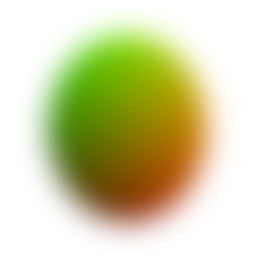
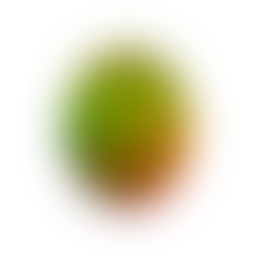
Add raindrop trail rendering & improve raindrop blending

diff --git a/rain/src/index.ts b/rain/src/index.ts
@@ -4,7 +4,7 @@ import vert from "./shader/2d-vert.glsl";
 import frag from "./shader/2d-frag.glsl";
 import { JitterOption } from "./random";
 import { Spawner } from "./spawner";
-import { RaindropSimulator } from "./physics";
+import { RaindropSimulator, SimulatorOptions } from "./simulator";
 import { MaterialRaindropNormal, RaindropCompose } from "./materials";
 import { RenderTarget } from "zogra-renderer/dist/core/render-target";
 import { Time } from "./utils";
@@ -12,10 +12,8 @@ import background from "../assets/img/87747832_p0.jpg";
 import { TextureFormat } from "zogra-renderer/dist/core/texture-format";
 import { BlurRenderer } from "./blur";
 
-export interface Options
+export interface Options extends SimulatorOptions
 {
-    spawnInterval: JitterOption<number>;
-    spawnSize: JitterOption<number>;
 }
 
 export class RaindropFX
@@ -25,8 +23,8 @@ export class RaindropFX
 
     private options: Options;
 
-    private spawner: Spawner;
-    private physics: RaindropSimulator = new RaindropSimulator();
+    // private spawner: Spawner;
+    private simulator: RaindropSimulator;
     private blurRenderer: BlurRenderer;
 
 
@@ -42,22 +40,26 @@ export class RaindropFX
 
 
 
-    constructor(canvas: HTMLCanvasElement, options: Options)
+    constructor(canvas: HTMLCanvasElement, options: Partial<Options>)
     {
         this.renderer = new ZograRenderer(canvas);
         this.renderer.gl.getExtension("EXT_color_buffer_float");
 
-        this.options = options;
+        const defaultOptions = <Options>{
+            spawnInterval: [0.2, 0.4],
+            spawnSize: [20, 160],
+            viewport: new Rect(vec2.zero(), this.renderer.canvasSize),
+        };
 
-        this.spawner = new Spawner(
-            options.spawnInterval,
-            options.spawnSize,
-            new Rect(vec2.zero(), vec2(canvas.width, canvas.height)));
+        this.options = { ...defaultOptions, ...options };
+
+        this.simulator = new RaindropSimulator(this.options);
+
         this.blurRenderer = new BlurRenderer(this.renderer);
         
         this.projectionMatrix = mat4.ortho(0, canvas.width, 0, canvas.height, 1, -1);
 
-        this.normalTexture = new RenderTexture(canvas.width, canvas.height, false, TextureFormat.RGBA16F);
+        this.normalTexture = new RenderTexture(canvas.width, canvas.height, false, TextureFormat.RGBA);
 
         this.mesh = MeshBuilder.quad();
     }
@@ -110,7 +112,7 @@ export class RaindropFX
             const dt = (delay - lastFrameTime) / 1000;
             lastFrameTime = delay;
             const time = <Time>{
-                dt: dt,
+                dt: 0.03,
                 total: delay / 1000
             };
 
@@ -126,13 +128,13 @@ export class RaindropFX
     {
         this.renderer.blit(this.background, RenderTarget.CanvasTarget);
         // return;
-        let newDrop = this.spawner.update(time.dt).trySpawn();
-        if (newDrop)
-        {
-            this.physics.add(newDrop);
-        }
+        // let newDrop = this.spawner.update(time.dt).trySpawn();
+        // if (newDrop)
+        // {
+        //     this.simulator.add(newDrop);
+        // }
 
-        this.physics.update(time);
+        this.simulator.update(time);
 
         if (this.background)
             this.renderer.blit(this.background, RenderTarget.CanvasTarget);
@@ -140,9 +142,10 @@ export class RaindropFX
         this.renderer.setRenderTarget(this.normalTexture);
         this.renderer.clear(Color.black.transparent());
         this.renderer.setViewProjection(mat4.identity(), this.projectionMatrix);
-        for (const raindrop of this.physics.raindrops)
+        for (const raindrop of this.simulator.raindrops)
         {
-            this.renderer.drawMesh(this.mesh, mat4.rts(quat.identity(), raindrop.pos.toVec3(), vec3(raindrop.size)), this.raindropNormalMat);
+            this.raindropNormalMat.size = raindrop.size.x / this.options.spawnSize[1];
+            this.renderer.drawMesh(this.mesh, mat4.rts(quat.identity(), raindrop.pos.toVec3(), raindrop.size.toVec3(1)), this.raindropNormalMat);
         }
         this.renderer.setRenderTarget(RenderTarget.CanvasTarget);
         this.renderer.clear(Color.black);

diff --git a/rain/src/raindrop.ts b/rain/src/raindrop.ts
@@ -1,31 +1,95 @@
-import { mul, vec2 } from "zogra-renderer";
-import { goldNoise } from "./random";
-import { Time } from "./utils";
+import { trimEnd } from "*.png";
+import { minus, mul, plus, vec2 } from "zogra-renderer";
+import { goldNoise, random, randomRange } from "./random";
+import { RaindropSimulator } from "./simulator";
+import { clamp, Time } from "./utils";
 
 export class RainDrop
 {
     pos: vec2;
-    size: number;
+    // size: number;
     seed: number;
     velocity: vec2 = vec2.zero();
+    spread: vec2;
+    destroy = false;
+    evaporate = 0;
+    mass: number = 0;
+
+    private simulator: RaindropSimulator;
+    private resistance = 0;
+    private shifting = 0;
+    private gravity = 2400;
+    private lastTrailPos: vec2;
+    private nextTrailDistance: number;
 
     private nextRandomTime = 0;
 
-    constructor(pos: vec2, size: number)
+    constructor(simulator: RaindropSimulator, pos: vec2, size: number)
     {
         this.pos = pos;
-        this.size = size;
         this.seed = Math.floor(Math.random() * 2147483647) + 1;
-        this.velocity.x = Math.random() * 20 - 10;
+        this.simulator = simulator;
+        // this.velocity.x = Math.random() * 20 - 10;
+        // this.velocity.y = -Math.random() * 60;
+
+        this.lastTrailPos = pos.clone();
+        this.nextTrailDistance = randomRange(10, 20);
+
+        this.spread = vec2(0.5, 0.5);
+
+        this.mass = size ** 2;
+    }
+    
+    get size(): vec2
+    {
+        return mul(plus(this.spread, vec2.one()), Math.sqrt(this.mass));
     }
 
     update(time: Time)
     {
-        this.pos.plus(mul(this.velocity, vec2(time.dt)));
         if (this.nextRandomTime <= time.total)
         {
-            this.nextRandomTime = time.total + Math.random() * 3;
-            this.velocity.x = Math.random() * 40 - 20;
+            this.nextRandomTime = time.total + Math.random() * 0.4;
+            this.randomMotion();
         }
+
+        this.mass -= this.evaporate * time.dt;
+        const force = this.gravity * this.mass - this.resistance;
+        const acceleration = force / this.mass;
+        this.velocity.y -= acceleration * time.dt;
+        if (this.velocity.y > 0)
+            this.velocity.y = 0;
+        this.velocity.x = Math.abs(this.velocity.y) * this.shifting;
+        this.pos.plus(mul(this.velocity, vec2(time.dt)));
+
+        this.spread.y = Math.max(this.spread.y, 0.3 * 2 * Math.atan(Math.abs(this.velocity.y * 0.005)) / Math.PI);
+        this.spread.x *= 0.7;
+        this.spread.y *= 0.85;
+        // this.spread.y +=  Math.abs(this.velocity.y) * 0.0001;
+
+        if (minus(this.lastTrailPos, this.pos).magnitude > this.nextTrailDistance)
+        {
+            this.split();
+        }
+    }
+
+    split()
+    {
+        if (this.mass < 1000)
+            return;
+        let mass = randomRange(0.05, 0.1) * this.mass;
+        this.mass -= mass * 0.5;
+        const pos = plus(vec2(randomRange(-5, 5), this.size.y / 4), this.pos);
+        let trailDrop = this.simulator.spawner.spawn(pos.clone(), mass);
+        trailDrop.spread = vec2(1, Math.abs(this.velocity.y) * 0.006);
+        this.simulator.add(trailDrop);
+        this.lastTrailPos = this.pos.clone();
+        this.nextTrailDistance = randomRange(20, 30);
+    }
+
+    randomMotion()
+    {
+        this.resistance = randomRange(0.1, 1) * this.gravity * 3000;
+        this.shifting = random() * 0.1;
     }
 }

diff --git a/rain/src/spawner.ts b/rain/src/spawner.ts
@@ -1,23 +1,26 @@
 import { Rect, vec2 } from "zogra-renderer";
 import { RainDrop } from "./raindrop";
-import { randomJittered, JitterOption, randomInRect } from "./random";
+import { randomJittered, JitterOption, randomInRect, randomRange } from "./random";
+import { RaindropSimulator, SimulatorOptions } from "./simulator";
 
 export class Spawner
 {
-    interval: JitterOption<number>;
-    size: JitterOption<number>;
-    spawnRect: Rect;
 
 
     currentTime = 0;
     nextSpawn = 0;
 
-    constructor(spawnInterval: JitterOption<number>, spawnSize: JitterOption<number>, spawnRect: Rect)
+    private simulator: RaindropSimulator;
+
+    constructor(simulator: RaindropSimulator, options: SimulatorOptions)
     {
-        this.interval = spawnInterval;
-        this.size = spawnSize;
-        this.spawnRect = spawnRect;
+
+        this.simulator = simulator;
     }
+    
+    get interval() { return this.simulator.options.spawnInterval }
+    get size() { return this.simulator.options.spawnSize }
+    get spawnRect() { return this.simulator.options.viewport }
 
     update(dt: number): this
     {
@@ -28,12 +31,16 @@ export class Spawner
     {
         if (this.currentTime >= this.nextSpawn)
         {
-            this.nextSpawn = this.currentTime + randomJittered(this.interval);
+            this.nextSpawn = this.currentTime + randomRange(...this.interval);
 
-            const size = randomJittered(this.size);
+            const size = randomRange(...this.size);
             const pos = randomInRect(this.spawnRect.shrink(100));
-            return new RainDrop(pos, size);
+            return new RainDrop(this.simulator, pos, size);
         }
         return undefined;
+    }
+    spawn(pos: vec2, mass: number)
+    {
+        return new RainDrop(this.simulator, pos, Math.pow(mass, 1 / 2));
     }
 }

diff --git a/rain/src/simulator.ts b/rain/src/simulator.ts
@@ -1,0 +1,53 @@
+import { Rect } from "zogra-renderer";
+import { RainDrop } from "./raindrop";
+import { JitterOption } from "./random";
+import { Spawner } from "./spawner";
+import { Time } from "./utils";
+
+export interface SimulatorOptions
+{
+    spawnInterval: [number, number];
+    spawnSize: [number, number];
+    viewport: Rect;
+}
+
+export class RaindropSimulator
+{
+    options: SimulatorOptions;
+    spawner: Spawner;
+    raindrops: RainDrop[] = [];
+    constructor(options: SimulatorOptions)
+    {
+        this.options = options;
+
+        this.spawner = new Spawner(this, options);
+    }
+    add(raindrop: RainDrop)
+    {
+        this.raindrops.push(raindrop);
+    }
+
+    update(time: Time)
+    {
+        let newDrop = this.spawner.update(time.dt).trySpawn();
+        if (newDrop)
+            this.raindrops.push(newDrop);
+
+        for (let i = 0; i < this.raindrops.length; i++)
+        {
+            const raindrop = this.raindrops[i];
+            raindrop.update(time);
+            if (raindrop.pos.y < -100)
+                raindrop.destroy = true;
+        }
+
+        for (let i = 0; i < this.raindrops.length; i++)
+        {
+            if (this.raindrops[i].destroy)
+            {
+                this.raindrops[i] = this.raindrops[this.raindrops.length - 1];
+                this.raindrops.length--;
+            }
+        }
+    }
+}

diff --git a/rain/src/materials.ts b/rain/src/materials.ts
@@ -4,12 +4,25 @@ import raindropNormal from "./shader/raindrop-normal.glsl";
 import raindropReflect from "./shader/reflect.glsl";
 import blur from "./shader/blur.glsl";
 
-export const MaterialRaindropNormal = SimpleTexturedMaterial(new Shader(defaultVert, raindropNormal, {
-    // blendAlpha: [Blending.SrcAlpha, Blending.OneMinusSrcAlpha],
-    blendRGB: [Blending.One, Blending.OneMinusSrcAlpha],
+// export const MaterialRaindropNormal = SimpleTexturedMaterial(new Shader(defaultVert, raindropNormal, {
+//     // blendAlpha: [Blending.SrcAlpha, Blending.OneMinusSrcAlpha],
+//     blendRGB: [Blending.One, Blending.OneMinusSrcAlpha],
+//     depth: DepthTest.Disable,
+//     zWrite: false,
+// }));
+
+export class MaterialRaindropNormal extends MaterialFromShader(new Shader(defaultVert, raindropNormal, {
+    blendRGB: [Blending.OneMinusDstColor, Blending.OneMinusSrcColor],
     depth: DepthTest.Disable,
     zWrite: false,
-}));
+}))
+{
+    @shaderProp("uMainTex", "tex2d")
+    texture: Texture | null = null;
+
+    @shaderProp("uSize", "float")
+    size: number = 0;
+}
 
 export class RaindropCompose extends MaterialFromShader(new Shader(defaultVert, raindropReflect, {
     blend: [Blending.SrcAlpha, Blending.OneMinusSrcAlpha],

diff --git a/rain/src/random.ts b/rain/src/random.ts
@@ -44,6 +44,17 @@ export function tentNoise(t: number, seed: number)
 {
     let frac = fract(t);
     let grid = Math.floor(t += seed);
+}
 
+/**
+ * Get random value in (-1, 1)
+ */
+export function random()
+{
+    return Math.random() * 2 - 1;
+}
 
+export function randomRange(min: number, max: number)
+{
+    return Math.random() * (max - min) + min;
 }

diff --git a/rain/demo.js b/rain/demo.js
@@ -8,14 +8,6 @@ canvas.width = rect.width;
 canvas.height = rect.height;
 
 const raindropFx = new SarRaindropFX(canvas, {
-    spawnInterval: {
-        base: 1,
-        jitter: 0
-    },
-    spawnSize: {
-        base: 100,
-        jitter: 40
-    }
 });
 
 raindropFx.setBackground("./assets/img/84765992_p0.jpg");

diff --git a/rain/src/utils.ts b/rain/src/utils.ts
@@ -3,3 +3,8 @@ export interface Time
     dt: number,
     total: number,
 }
+
+export function clamp(x: number, l: number, h: number)
+{
+    return Math.min(Math.max(x, l), h);
+}
